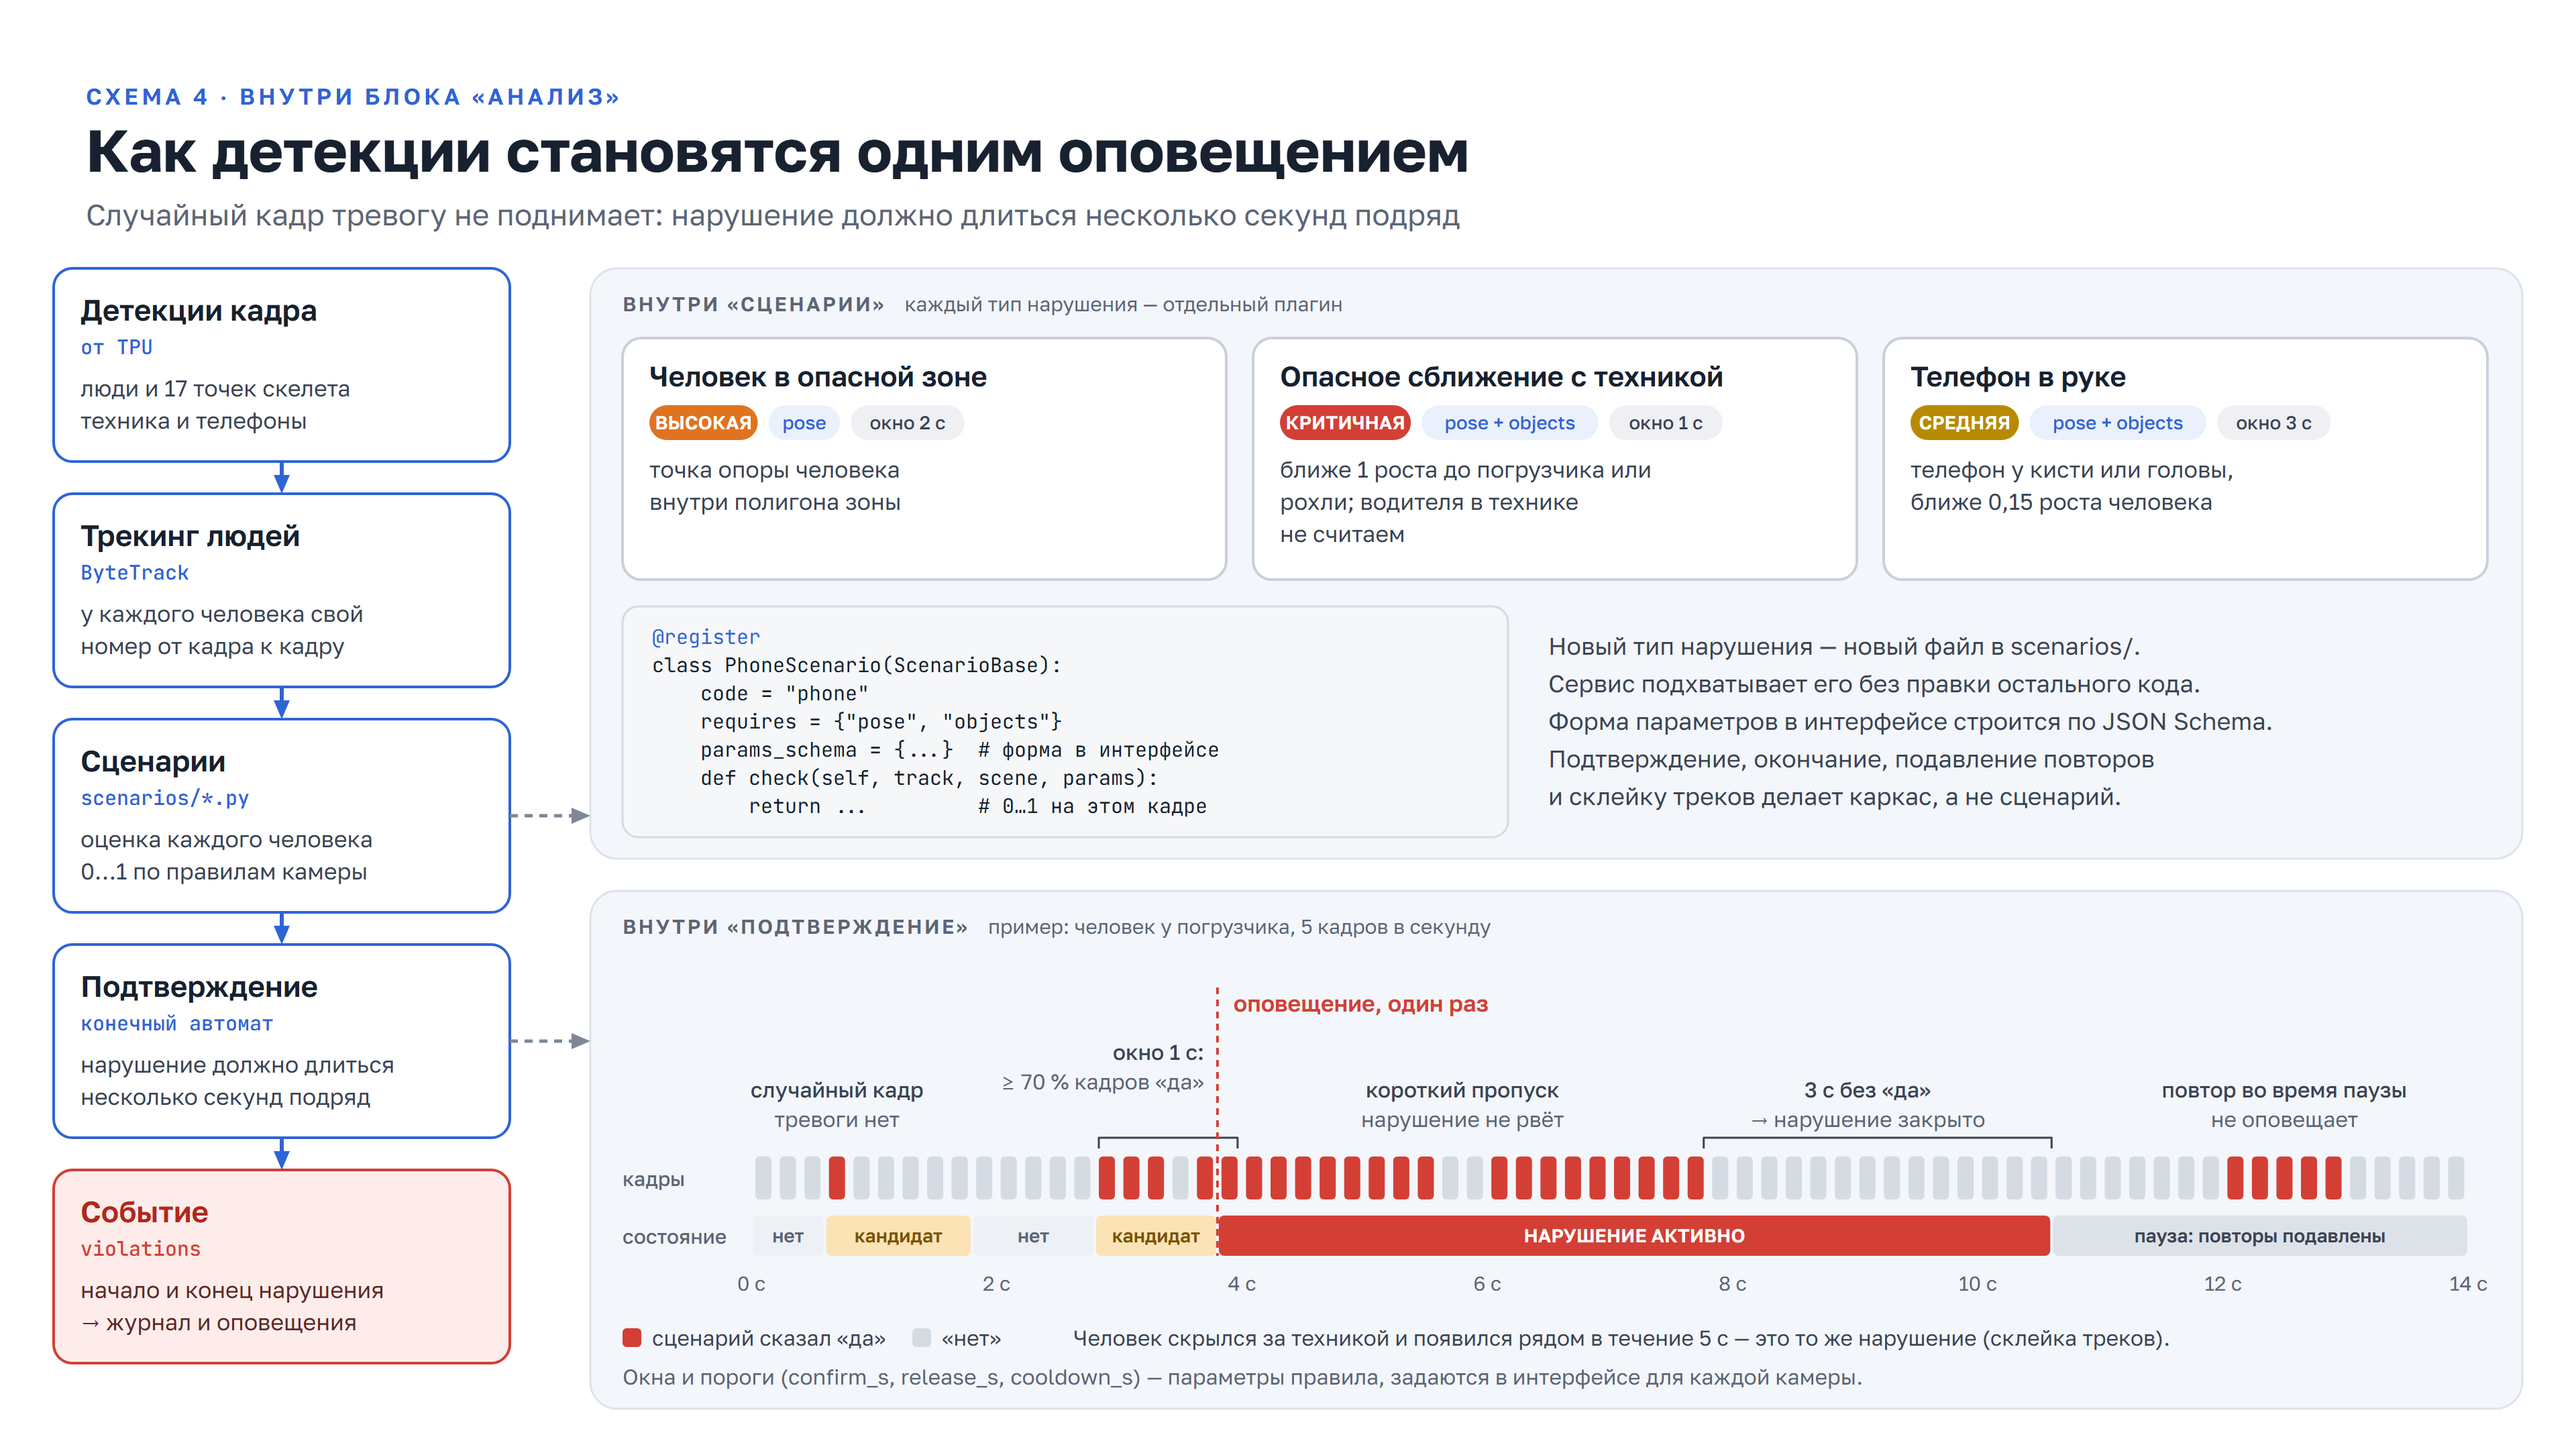
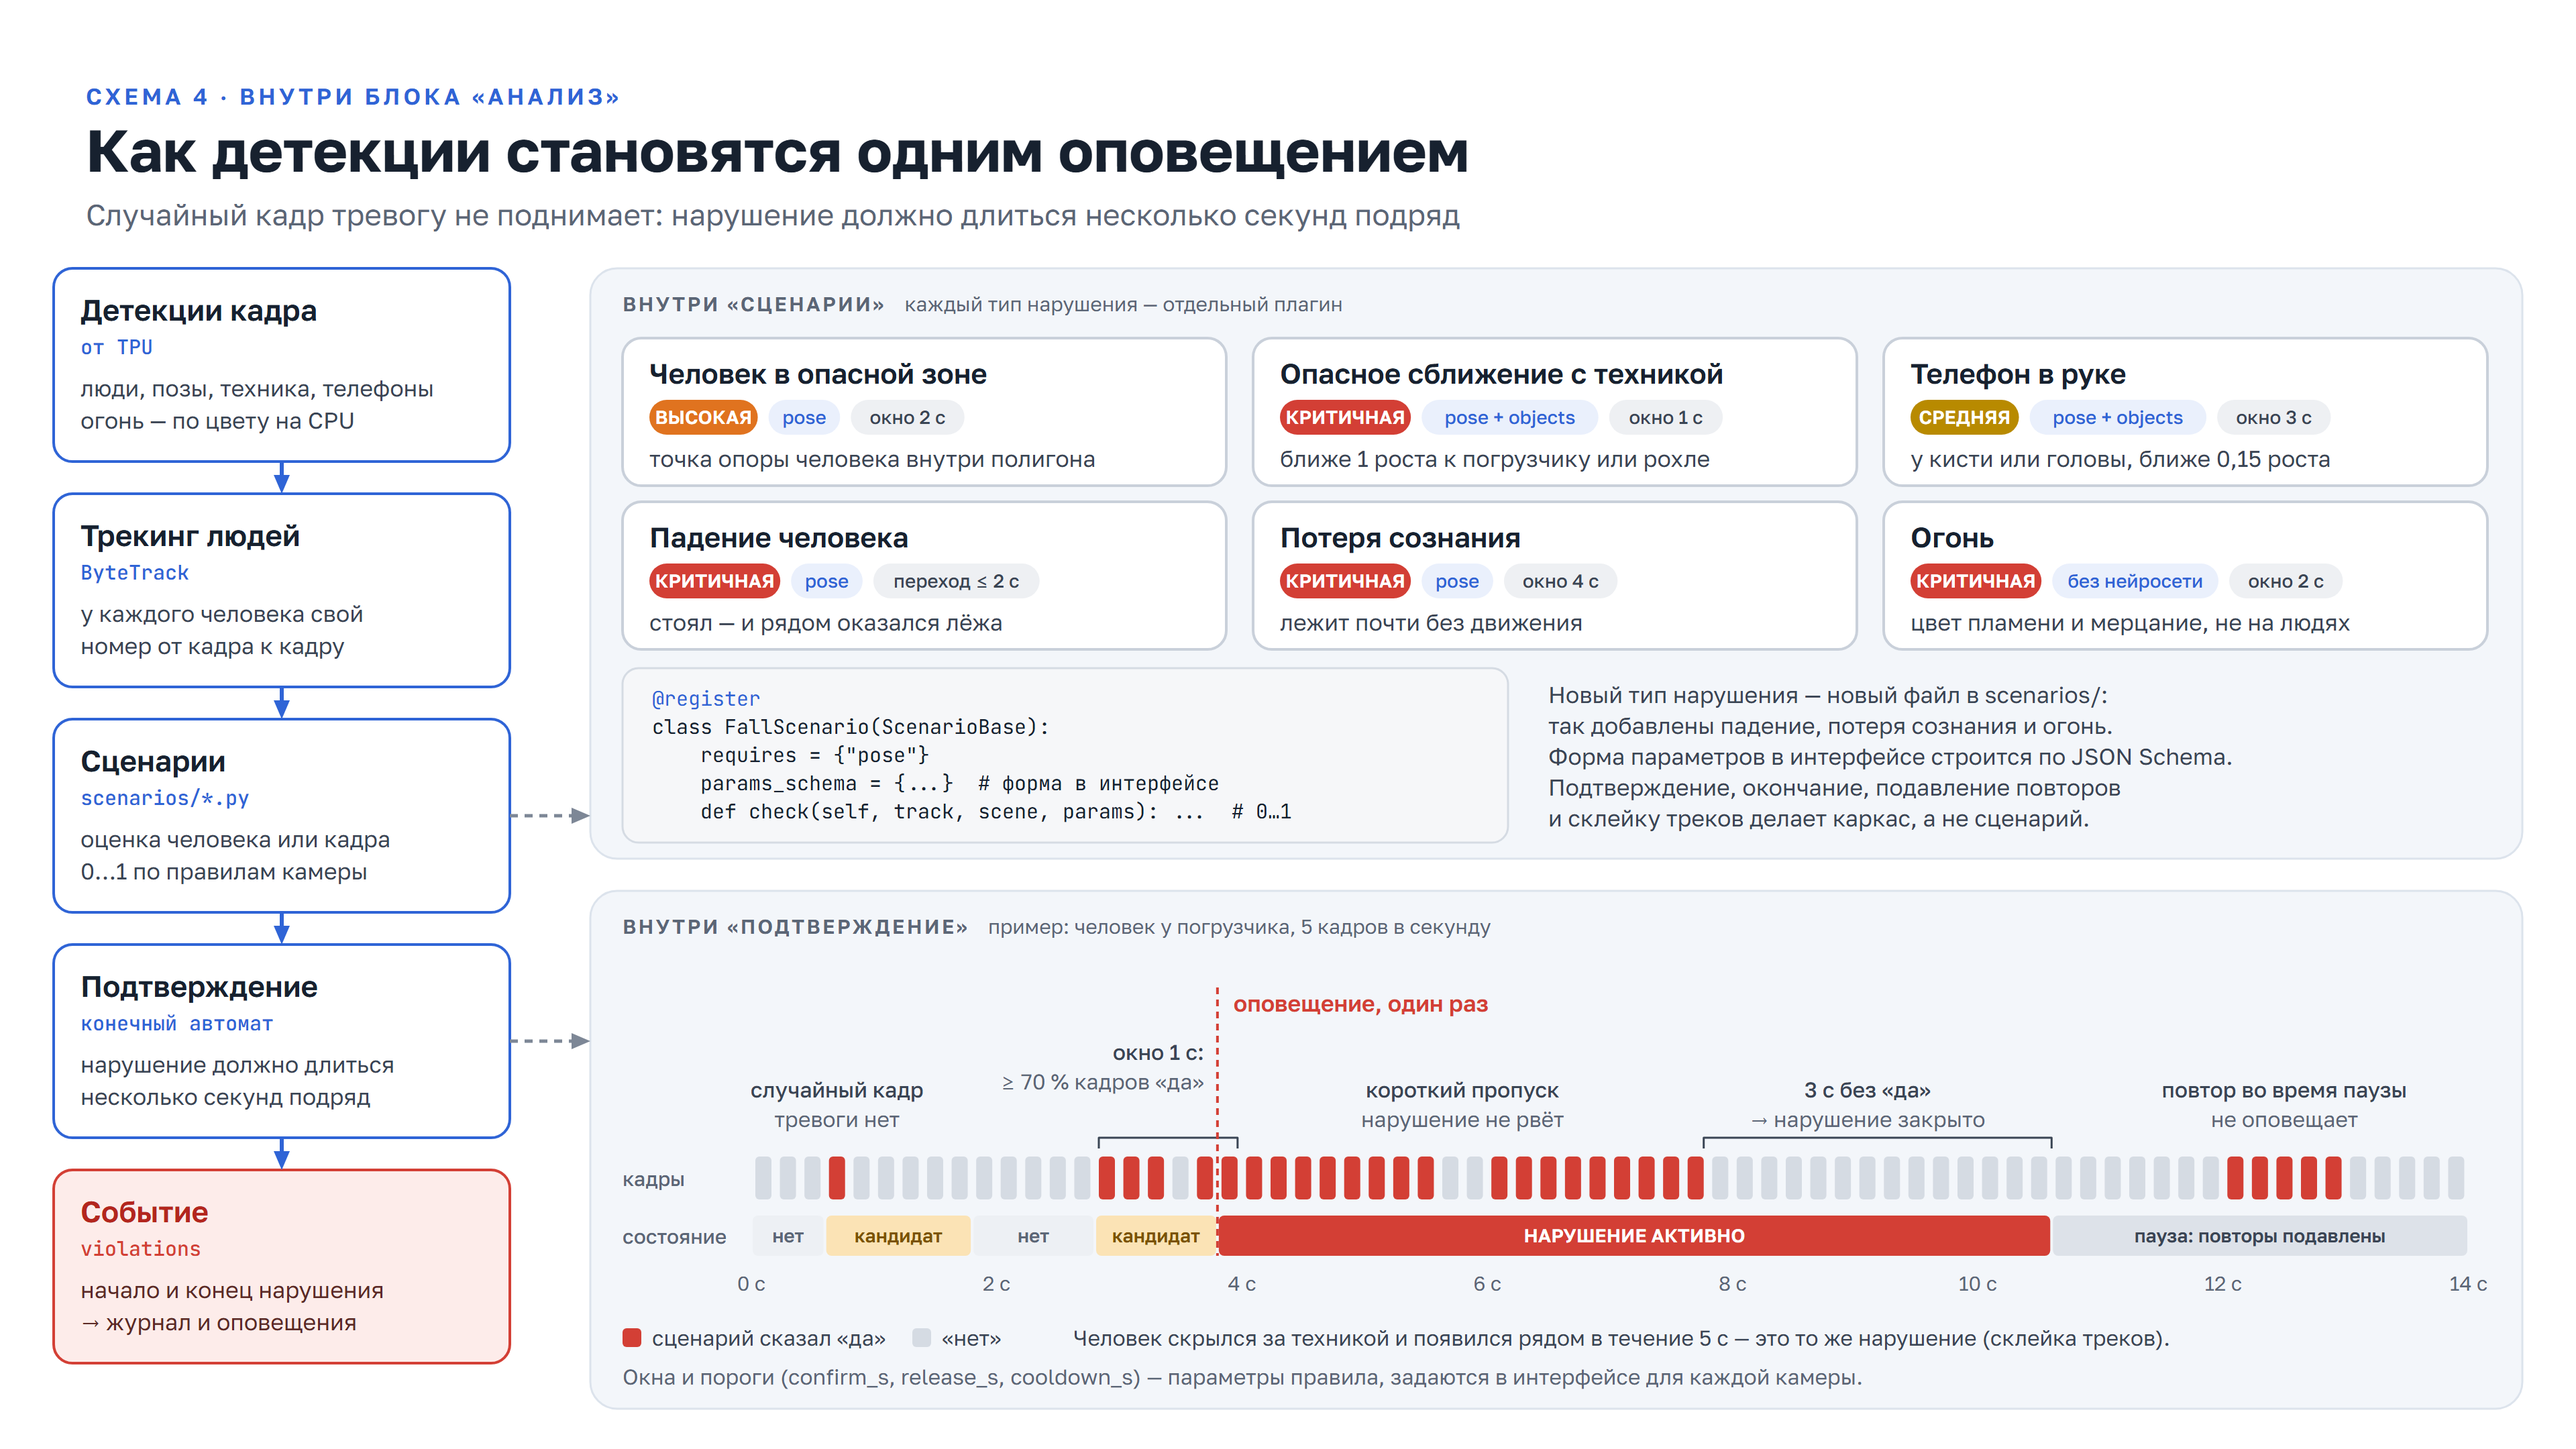
change diagrams

diff --git a/docs/diagrams/build.py b/docs/diagrams/build.py
@@ -222,8 +222,13 @@ def d1() -> Svg:
     s.text(660, 474, "находит нарушения на каждом кадре", 20, 400, "#C9D2DE")
     s.text(660, 502, "и решает, когда поднять тревогу", 20, 400, "#C9D2DE")
     s.text(660, 556, "РАСПОЗНАЁТ СЕЙЧАС", 14, 600, "#8E9BB0", ls=2)
-    for i, t in enumerate(["Человек в опасной зоне", "Опасное сближение с техникой", "Телефон в руке"]):
-        pill(s, 660, 574 + i * 50, t, "#223047", "#FFFFFF", "#3B4B63", size=18, weight=400, h=40)
+    for i, row in enumerate([["Человек в опасной зоне", "Телефон в руке"], ["Опасное сближение с техникой"],
+                             ["Падение человека", "Потеря сознания", "Огонь"]]):
+        x = 660
+        for t in row:
+            x = pill(s, x, 574 + i * 50, t, "#223047", "#FFFFFF", "#3B4B63", size=18, weight=400, h=40) + 10
+        if x - 10 > 1200:
+            WARN.append(f"d1: ряд «{' · '.join(row)}» выходит за чёрный ящик на {x - 1210:.0f}px")
     badge(s, 1240, 330, "подробно: схема 2 →", light=True)
 
     # LinQ TPU
@@ -439,9 +444,9 @@ def d4() -> Svg:
     header(s, "СХЕМА 4 · ВНУТРИ БЛОКА «АНАЛИЗ»", "Как детекции становятся одним оповещением",
            "Случайный кадр тревогу не поднимает: нарушение должно длиться несколько секунд подряд")
 
-    steps = [("Детекции кадра", "от TPU", ["люди и 17 точек скелета", "техника и телефоны"], "svc"),
+    steps = [("Детекции кадра", "от TPU", ["люди, позы, техника, телефоны", "огонь — по цвету на CPU"], "svc"),
              ("Трекинг людей", "ByteTrack", ["у каждого человека свой", "номер от кадра к кадру"], "svc"),
-             ("Сценарии", "scenarios/*.py", ["оценка каждого человека", "0…1 по правилам камеры"], "svc"),
+             ("Сценарии", "scenarios/*.py", ["оценка человека или кадра", "0…1 по правилам камеры"], "svc"),
              ("Подтверждение", "конечный автомат", ["нарушение должно длиться", "несколько секунд подряд"], "svc"),
              ("Событие", "violations", ["начало и конец нарушения", "→ журнал и оповещения"], "alert")]
     for i, (t, tag, lines, kind) in enumerate(steps):
@@ -454,32 +459,37 @@ def d4() -> Svg:
     zone(s, 440, 200, 1440, 440, "ВНУТРИ «СЦЕНАРИИ»", "каждый тип нарушения — отдельный плагин")
     s.arrow([(380, 608), (440, 608)], GREY, 2.5, "6 5")
     cards = [("Человек в опасной зоне", ("ВЫСОКАЯ", ORANGE), "pose", "окно 2 с",
-              ["точка опоры человека", "внутри полигона зоны"]),
+              "точка опоры человека внутри полигона"),
              ("Опасное сближение с техникой", ("КРИТИЧНАЯ", RED), "pose + objects", "окно 1 с",
-              ["ближе 1 роста до погрузчика или", "рохли; водителя в технике", "не считаем"]),
+              "ближе 1 роста к погрузчику или рохле"),
              ("Телефон в руке", ("СРЕДНЯЯ", YELLOW), "pose + objects", "окно 3 с",
-              ["телефон у кисти или головы,", "ближе 0,15 роста человека"])]
-    for i, (t, (sev, col), models, win, lines) in enumerate(cards):
-        x = 464 + i * 470
-        s.rect(x, 252, 450, 180, "#FFFFFF", "#C9D0DA", 2, 14)
-        s.text(x + 20, 288, t, 21, 600, INK, maxw=410)
-        px = pill(s, x + 20, 302, sev, col, "#FFFFFF")
-        px = pill(s, px + 8, 302, models, BLUE_SOFT, BLUE, weight=500)
-        pill(s, px + 8, 302, win, "#EEF0F3", TEXT, weight=500)
-        for j, ln in enumerate(lines):
-            s.text(x + 20, 356 + j * 24, ln, 17, 400, TEXT, maxw=410)
-    s.rect(464, 452, 660, 172, "#F6F7F9", "#D5DBE3", 1.5, 12)
-    code = ["@register", "class PhoneScenario(ScenarioBase):", '    code = "phone"',
-            '    requires = {"pose", "objects"}', "    params_schema = {...}  # форма в интерфейсе",
-            "    def check(self, track, scene, params):", "        return ...         # 0…1 на этом кадре"]
+              "у кисти или головы, ближе 0,15 роста"),
+             ("Падение человека", ("КРИТИЧНАЯ", RED), "pose", "переход ≤ 2 с",
+              "стоял — и рядом оказался лёжа"),
+             ("Потеря сознания", ("КРИТИЧНАЯ", RED), "pose", "окно 4 с",
+              "лежит почти без движения"),
+             ("Огонь", ("КРИТИЧНАЯ", RED), "без нейросети", "окно 2 с",
+              "цвет пламени и мерцание, не на людях")]
+    for i, (t, (sev, col), models, win, ln) in enumerate(cards):
+        x, y = 464 + i % 3 * 470, 252 + i // 3 * 122
+        s.rect(x, y, 450, 110, "#FFFFFF", "#C9D0DA", 2, 14)
+        s.text(x + 20, y + 34, t, 21, 600, INK, maxw=410)
+        px = pill(s, x + 20, y + 46, sev, col, "#FFFFFF")
+        px = pill(s, px + 8, y + 46, models, BLUE_SOFT, BLUE, weight=500)
+        pill(s, px + 8, y + 46, win, "#EEF0F3", TEXT, weight=500)
+        s.text(x + 20, y + 96, ln, 17, 400, TEXT, maxw=410)
+    s.rect(464, 498, 660, 130, "#F6F7F9", "#D5DBE3", 1.5, 12)
+    code = ["@register", "class FallScenario(ScenarioBase):", '    requires = {"pose"}',
+            "    params_schema = {...}  # форма в интерфейсе",
+            "    def check(self, track, scene, params): ...  # 0…1"]
     for j, ln in enumerate(code):
-        s.text(486, 480 + j * 21, ln, 15, 400, BLUE if j == 0 else INK, mono=True, maxw=620)
-    for j, ln in enumerate(["Новый тип нарушения — новый файл в scenarios/.",
-                            "Сервис подхватывает его без правки остального кода.",
+        s.text(486, 526 + j * 21, ln, 15, 400, BLUE if j == 0 else INK, mono=True, maxw=620)
+    for j, ln in enumerate(["Новый тип нарушения — новый файл в scenarios/:",
+                            "так добавлены падение, потеря сознания и огонь.",
                             "Форма параметров в интерфейсе строится по JSON Schema.",
                             "Подтверждение, окончание, подавление повторов",
                             "и склейку треков делает каркас, а не сценарий."]):
-        s.text(1154, 488 + j * 28, ln, 18, 400, TEXT, maxw=700)
+        s.text(1154, 524 + j * 23, ln, 17, 400, TEXT, maxw=700)
 
     # временная шкала
     zone(s, 440, 664, 1440, 386, "ВНУТРИ «ПОДТВЕРЖДЕНИЕ»", "пример: человек у погрузчика, 5 кадров в секунду")
@@ -752,7 +762,7 @@ def d7() -> Svg:
             WARN.append(f"d7: ряд «{title}» шире слайда на {x - 1856:.0f}px")
     s.line(64, 990, 1856, 990, LINE, 1.5)
     for x, num, cap in [(64, "7", "сервисов на Python"), (420, "2", "нейросети на TPU за один кадр"),
-                        (900, "3", "типа нарушений"), (1260, "1", "команда запуска: docker compose up")]:
+                        (900, "6", "сценариев: нарушения и ЧП"), (1260, "1", "команда запуска: docker compose up")]:
         s.text(x, 1040, num, 34, 700, INK)
         s.text(x + tw(num, 34, weight=700) + 12, 1040, cap, 19, 400, MUTED)
     return s
